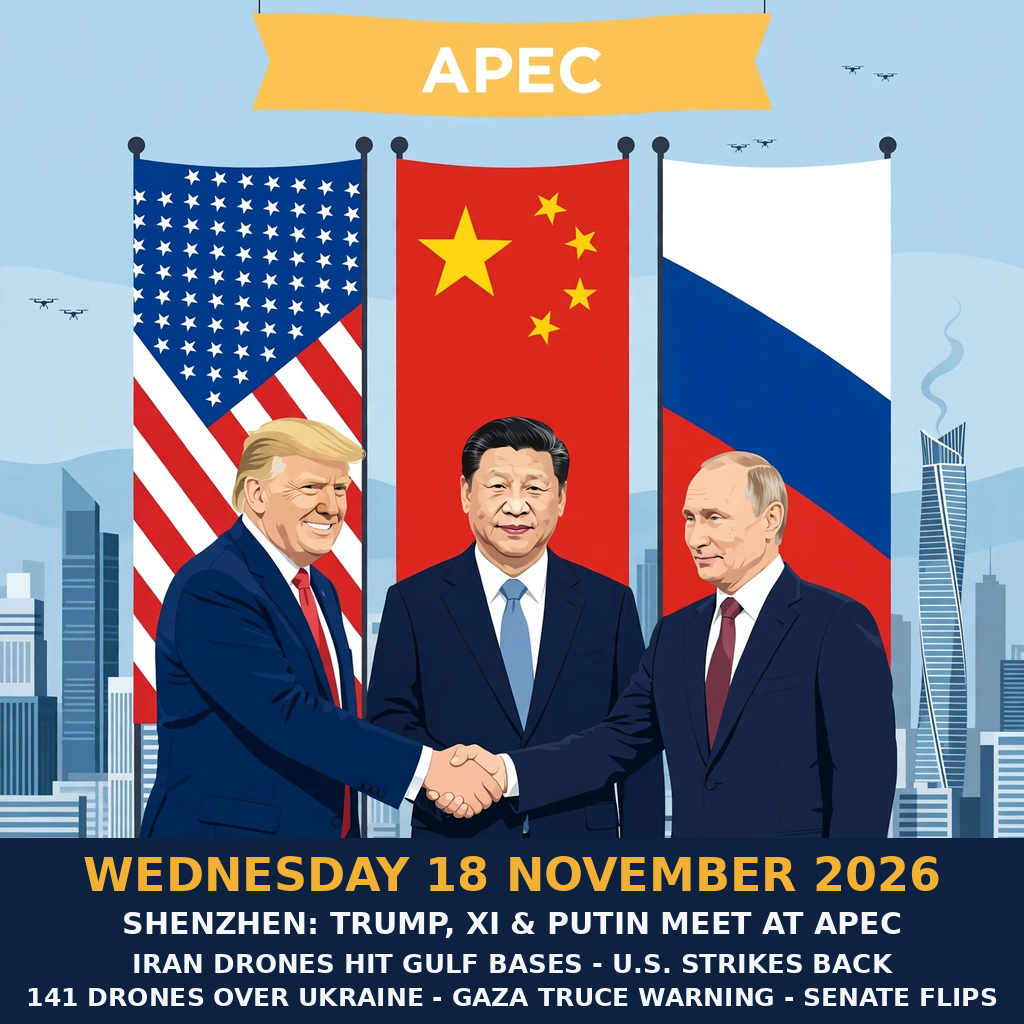
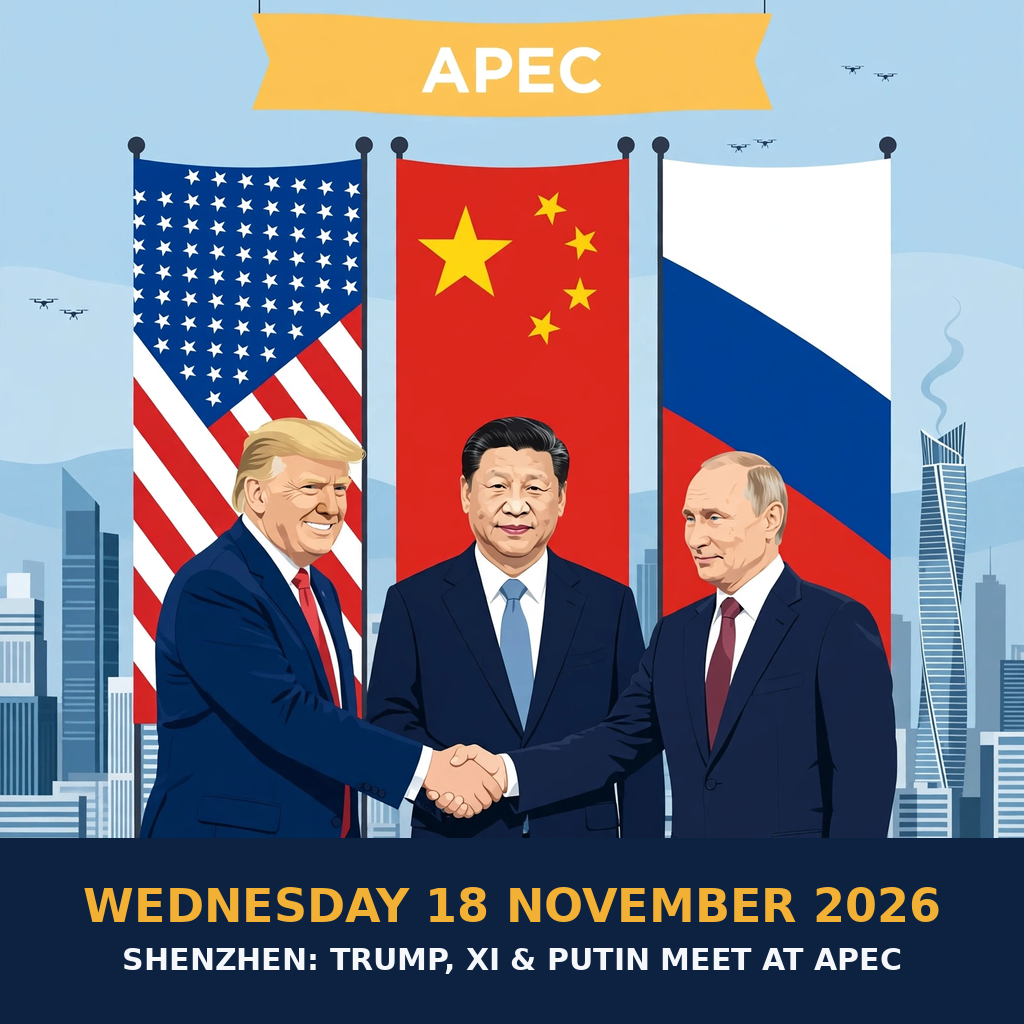
Remove Iran/Ukraine footer headlines; footer now date + APEC caption only

Changed region(s): [[0.0312, 0.8125, 0.9688, 1.0]]

diff --git a/compose.py b/compose.py
@@ -4,10 +4,12 @@
 Takes the chosen editorial illustration (candidate A: Trump, Xi and Putin
 shaking hands under an APEC banner, US/China/Russia flags, Shenzhen
 skyline, faint drones and smoke on the horizon) and adds a newspaper
-footer band with crisp, program-drawn text — the date the image sums up
-(the judge's first criterion is that the image names its day) and the
-day's other big stories as short headlines (its second criterion is
-breadth across regions and fields).
+footer band with crisp, program-drawn text: exactly two lines, focused
+on what the photo itself shows — the date the image sums up (the judge's
+first criterion is that the image names its day) and the meeting in the
+picture. An earlier draft carried two extra headline lines (Iran drones,
+Ukraine drones); the owner ordered them removed so the text stays
+focused on the photo.
 
 All text is drawn here with PIL, never by the image generator, so no
 lettering can come out garbled. Output: entry.png, 1024x1024.
@@ -57,25 +59,28 @@ def main():
     canvas.paste(hero, (0, 0))
     draw = ImageDraw.Draw(canvas)
 
-    y = hero_h + 10
+    # Footer text: exactly two lines, focused on what the photo shows —
+    # the date it sums up and the meeting in the picture. The block is
+    # measured and centred vertically in the band, so no empty gap is
+    # left where the removed headline lines used to sit.
     date_line = "WEDNESDAY 18 NOVEMBER 2026"
-    font = fit_font(draw, date_line, W - 40, 46)
-    centered(draw, y, date_line, font, GOLD)
-    y += 58
-
+    date_font = fit_font(draw, date_line, W - 40, 46)
     caption = "SHENZHEN: TRUMP, XI & PUTIN MEET AT APEC"
-    font = fit_font(draw, caption, W - 40, 30)
-    centered(draw, y, caption, font, WHITE)
-    y += 42
+    cap_font = fit_font(draw, caption, W - 40, 30)
 
-    headlines = [
-        "IRAN DRONES HIT GULF BASES - U.S. STRIKES BACK",
-        "141 DRONES OVER UKRAINE - GAZA TRUCE WARNING - SENATE FLIPS",
-    ]
-    for line in headlines:
-        font = fit_font(draw, line, W - 40, 26)
-        centered(draw, y, line, font, WHITE)
-        y += 34
+    def line_h(text, font):
+        bbox = draw.textbbox((0, 0), text, font=font)
+        return bbox[3] - bbox[1], bbox[1]
+
+    date_h, date_top = line_h(date_line, date_font)
+    cap_h, cap_top = line_h(caption, cap_font)
+    gap = 26
+    block_h = date_h + gap + cap_h
+    y = hero_h + (band_h - block_h) // 2
+    centered(draw, y - date_top, date_line, date_font, GOLD)
+    y += date_h + gap
+    centered(draw, y - cap_top, caption, cap_font, WHITE)
+    y += cap_h
 
     assert y <= W, f"text overflow: y={y}"
     canvas.save(OUT, optimize=True)
